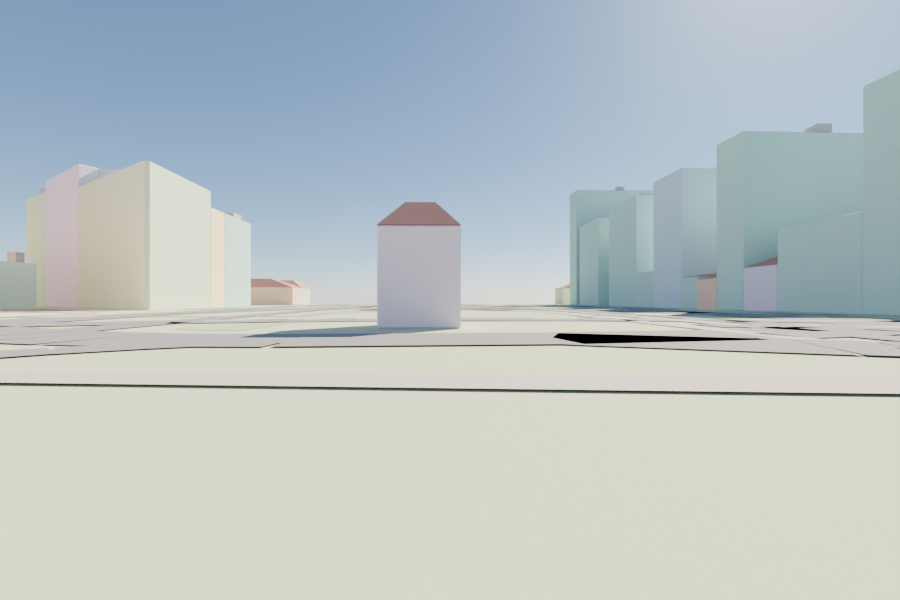
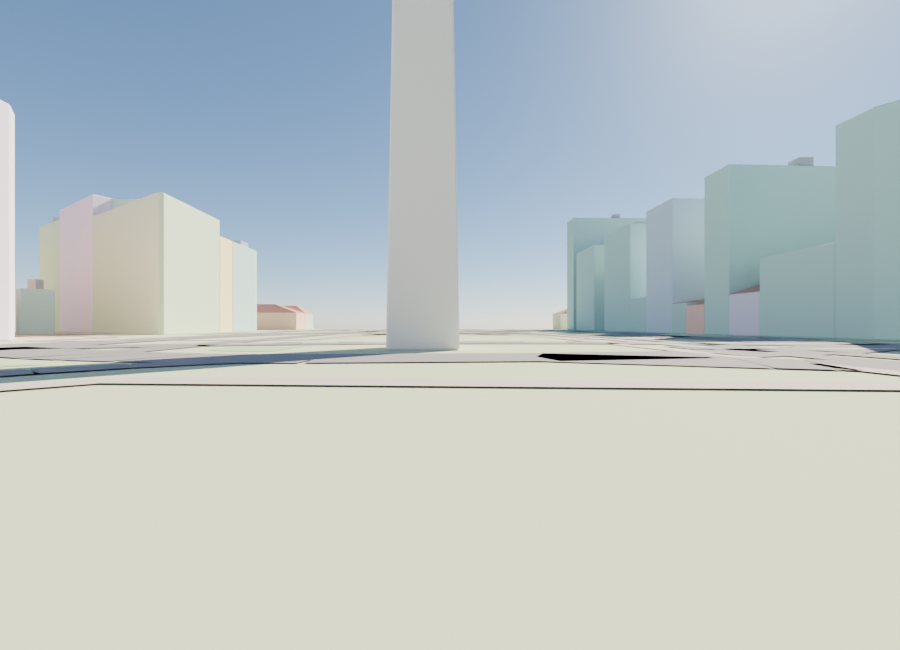
Build landmarks (obelisk/tower/monument) as tapered spires, not boxes
- add_spire(): tapered shaft + pyramidal tip for vertical landmarks; routed by
  building type so obelisks/towers/monuments no longer render as boxes with a
  house roof.
- Real default heights for these types (Obelisco ~67 m) and stone-like colors.
- Demonstrates one refine-loop iteration end to end: the Obelisco went from a 9 m
  box to a 67 m spire at street level (docs/example-streetlevel.png).

Claude-Session: https://claude.ai/code/session_01McqW6exN73KnoBEBxDXuoM

diff --git a/scripts/blender_build.py b/scripts/blender_build.py
@@ -140,6 +140,42 @@ def add_rooftop_detail(bm, footprint, top_z):
     add_prism(bm, box, top_z, top_z + h)
 
 
+LANDMARK_TYPES = {"obelisk", "tower", "monument", "mast", "chimney"}
+
+
+def add_spire(bm, footprint, base_z, top_z):
+    """Aguja/torre afinada con punta piramidal (obeliscos, monumentos, mastiles)."""
+    pts = dedupe_ring(footprint, closed=True)
+    if len(pts) < 3:
+        return
+    cx, cy, sx, sy = _centroid_bbox(pts)
+    shaft_top = base_z + (top_z - base_z) * 0.85
+    taper = 0.25  # se afina hacia arriba
+    try:
+        bottom = [bm.verts.new((x, y, base_z)) for (x, y) in pts]
+        ring = [bm.verts.new((cx + (x - cx) * (1 - taper),
+                              cy + (y - cy) * (1 - taper), shaft_top))
+                for (x, y) in pts]
+        apex = bm.verts.new((cx, cy, top_z))
+    except ValueError:
+        return
+    n = len(pts)
+    for i in range(n):
+        j = (i + 1) % n
+        try:
+            bm.faces.new((bottom[i], bottom[j], ring[j], ring[i]))  # fuste
+        except ValueError:
+            pass
+        try:
+            bm.faces.new((ring[i], ring[j], apex))                  # punta
+        except ValueError:
+            pass
+    try:
+        bm.faces.new(bottom)  # base
+    except ValueError:
+        pass
+
+
 def add_bridge_piers(bm, path, deck_z, spacing=18.0, size=1.4):
     """Agrega pilares (columnas) desde el piso hasta el tablero de un puente elevado."""
     pts = dedupe_ring(path, closed=False)
@@ -248,6 +284,9 @@ def build_scene(scene):
         for b in items:
             base = float(b.get("min_height", 0.0))
             top = float(b["height"])
+            if b.get("type") in LANDMARK_TYPES:
+                add_spire(bm, b["footprint"], base, top)   # aguja, sin techo de casa
+                continue
             add_prism(bm, b["footprint"], base, top)
             if (top - base) <= ROOF_SMALL_MAX_H:
                 add_hip_roof(roof_house_bm, b["footprint"], top)

diff --git a/scripts/place_to_3d.py b/scripts/place_to_3d.py
@@ -293,6 +293,9 @@ BUILDING_COLORS = {
     "public":       (0.74, 0.72, 0.82),
     "garage":       (0.66, 0.64, 0.60),
     "roof":         (0.70, 0.48, 0.38),
+    "obelisk":      (0.86, 0.84, 0.80),  # piedra clara
+    "tower":        (0.72, 0.70, 0.68),
+    "monument":     (0.84, 0.82, 0.78),
     "_default":     (0.82, 0.72, 0.58),
 }
 
@@ -320,7 +323,12 @@ DEFAULT_HEIGHT = {
     "retail": 8.0, "office": 20.0, "industrial": 9.0, "warehouse": 9.0,
     "hotel": 22.0, "church": 15.0, "cathedral": 25.0, "hospital": 20.0,
     "school": 9.0, "university": 12.0, "_default": 9.0,
+    # landmarks verticales (se construyen como agujas, no cajas)
+    "obelisk": 67.0, "tower": 45.0, "monument": 28.0, "mast": 40.0, "chimney": 35.0,
 }
+
+# Tipos que se construyen como aguja/torre afinada en vez de caja con techo
+LANDMARK_TYPES = {"obelisk", "tower", "monument", "mast", "chimney"}
 
 LEVEL_HEIGHT = 3.2  # metros por piso
 